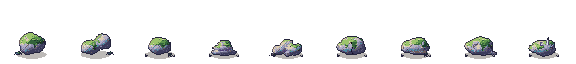
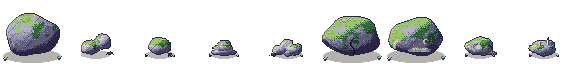
mossy_boulder.png: variants 0, 5, 6 are big boulders (Environment Discussion, user-approved: spurs read as trees only)
The shrunk boulders read as dots in the open-bowl maps' spurs. Variant 0 (mossy boulder), 5 (split) and 6
(lichen) are now drawn big and never shrunk: ~54-56 x 40-42 px, sitting low on a wide shadow, so any rock roll
gives a big boulder about 1 in 3. They use a one-step-heavier stone ramp (no top highlight) and less moss, which
keeps the value order (act 4 rocks 0.561 < path 0.595). The others and the ruin's 2 / 3 / 7 are unchanged.
All 4 acts, same layout, no code change.

Changed region(s): [[0.5312, 0.25, 0.7812, 1.0], [0.0, 0.1875, 0.125, 1.0]]

diff --git a/Project_T/tools/environment_art/heartwood_grounds.html b/Project_T/tools/environment_art/heartwood_grounds.html
@@ -855,20 +855,20 @@ function fern(out, g, x, y, sz = 1) {
   }
 }
 
-function boulder(A, v, seed) {
+function boulder(A, v, seed, big = false) {  // big: variant 0 as a heavy boulder filling most of the cell (see rock)
   const out = new Img(), L = new Img(), g = A.grass;
-  ellipse(out, 32, 54, 22, 6, SHADOW(.3));
-  const rocks = v === 0 ? [[32, 38, 20, 16]] : [[24, 43, 14, 11], [42, 35, 13, 12]];
-  for (const [x, y, rx, ry] of rocks) blob(L, x, y, rx, ry, STONE_RAMP, { lump: .1, seed: seed + x, tex: .12, rim: true });
+  ellipse(out, 32, big ? 56 : 54, big ? 29 : 22, big ? 7 : 6, SHADOW(big ? .34 : .3));
+  const rocks = big ? [[32, 35, 27, 21]] : v === 0 ? [[32, 38, 20, 16]] : [[24, 43, 14, 11], [42, 35, 13, 12]];
+  for (const [x, y, rx, ry] of rocks) blob(L, x, y, rx, ry, big ? BIG_STONE : STONE_RAMP, { lump: .1, seed: seed + x, tex: .12, rim: true });
   for (let y = 0; y < T; y++) for (let x = 0; x < T; x++) {
     if (!L.alpha(x, y)) continue;
     let best = rocks[0], bd = 1e9;
     for (const r of rocks) { const d = Math.hypot((x - r[0]) / r[2], (y - r[1]) / r[3]); if (d < bd) { bd = d; best = r; } }
     const dy = (y + .5 - best[1]) / best[3], dx = (x + .5 - best[0]) / best[2], n = pnoise(x, y, 6, seed + 3);
-    if (n - dy * .55 > .68) L.set(x, y, pick([g[2], g[3], g[4], "#86b060"], clamp(.62 - dx * .35 - dy * .4, 0, 1), x, y));
+    if (n - dy * .55 > (big ? .78 : .68)) L.set(x, y, pick([g[2], g[3], g[4], "#86b060"], clamp(.62 - dx * .35 - dy * .4, 0, 1), x, y));
   }
   out.stamp(L, ST.out);
-  fern(out, g, v === 0 ? 12 : 53, 54, .9);
+  if (big) { tuft(out, 5, 59, g); tuft(out, 59, 58, g); } else fern(out, g, v === 0 ? 12 : 53, 54, .9);
   return out;
 }
 
@@ -1574,8 +1574,21 @@ function mossPass(L, cx, cy, rx, ry, g, seed, amount = .78) {
 //    5 ruined waystone, 6 dream-crystal boulder
 // Every rock shares the family look so it never reads as a tree: low and round, waystone lavender,
 // a green moss cap, grass at its foot, and nothing tall, pale-barked or branching.
-function rock(A, t, seed) {
+// big: a heavy boulder filling most of the cell, never shrunk (2026-10-06, Environment Discussion: the shrunk
+// boulders read as dots in the spurs, so spur lines looked like trees only). Split (3) and lichen (4) only.
+function rock(A, t, seed, big = false) {
   const out = new Img(), L = new Img(), g = A.grass, dim = [g[0], g[0], g[1], g[2], g[3]];
+  if (big) {
+    ellipse(out, 32, 56, 29, 7, SHADOW(.34));
+    const [cx, cy, rx, ry] = t === 3 ? [32, 36, 28, 20] : [32, 37, 27, 19];
+    blob(L, cx, cy, rx, ry, BIG_STONE, { lump: .1, seed, tex: .12, rim: true });
+    if (t === 3) for (let y = 16; y <= 56; y++) { const x = 32 + Math.round(Math.sin(y * .4) * 2); if (L.alpha(x, y)) { L.set(x, y, "#0c0a14"); L.set(x + 1, y, ST.d2); if (y < 28 && y % 3 === 0) L.set(x - 1, y, g[3]); } }
+    else for (let y = 0; y < T; y++) for (let x = 0; x < T; x++) if (L.alpha(x, y) && y > 36 && pnoise(x, y, 5, seed + 8) > .7) L.set(x, y, hash(x, y, seed) < .6 ? "#8ab0a0" : "#b8d4c4");
+    mossPass(L, cx, cy, rx, ry, g, seed + 3, .5);
+    out.stamp(L, ST.out);
+    tuft(out, 5, 59, g); tuft(out, 59, 58, g);
+    return out;
+  }
   ellipse(out, 32, 54, 22, 6, SHADOW(.32));
   const MOSS = .66;
   if (t === 0) {
@@ -2119,6 +2132,7 @@ function ropeBridge(o) {
 // Rocks read smaller than the (taller) dead trees: each finished 64 px rock is shrunk to 68%
 // (nearest pixel), re-outlined, and set back on its old base line (y 55) in a 64 px cell.
 const ROCK_SCALE = .68;
+const BIG_STONE = [ST.d2, ST.d1, ST.m, ST.l1, ST.l2];  // the big boulders: one step heavier, no top highlight (keeps rocks under the path)
 function shrinkRock(im) {
   const n = Math.round(64 * ROCK_SCALE), small = new Img(n, n);
   for (let j = 0; j < n; j++) for (let i = 0; i < n; i++) {
@@ -2144,7 +2158,7 @@ const BUILD = {
   tree: (A, v) => tree(A, v, SEED + v * 17),
   withered: (A, v, f) => withered(A, f, SEED + v * 13),
   tended: A => tended(A),
-  boulder: (A, v) => shrinkRock(boulder(A, v, SEED + v * 7)),
+  boulder: (A, v) => v === 0 ? boulder(A, 0, SEED, true) : shrinkRock(boulder(A, v, SEED + v * 7)),  // sheet variant 0 is a big boulder
   dent: A => dent(A),
   waystone: (A, v, f) => waystone(A, f),
   pool: (A, v, f) => pool(A, f),
@@ -2161,7 +2175,7 @@ const BUILD = {
   fruit: (A, v, f) => dreamFruit(v, f),
   decor: (A, v) => decorAt(A, v, SEED + v),
   dead: (A, v, f) => deadTree(A, v, f, SEED + v * 29),
-  rock: (A, v) => shrinkRock(rock(A, v, SEED + v * 31)),
+  rock: (A, v) => v === 3 || v === 4 ? rock(A, v, SEED + v * 31, true) : shrinkRock(rock(A, v, SEED + v * 31)),  // sheet variants 5, 6 are big
   isle: (A, k) => islandEdge(A, k & 15, k >> 4),  // k = mask + 16 × variant
   cliff: (A, k) => cliffTile(A, k),
   voidsky: () => voidSky(),

diff --git a/Project_T/documentation/environment_assets.md b/Project_T/documentation/environment_assets.md
@@ -49,7 +49,7 @@ two trees pulse in step.
 | `fallen_log.png` | 384×64 | 6 pieces of 64×64: **W end, E–W middle, E end, N end, N–S middle, S end** | a dead tree lying along a straight line of cells (the map's log feature, the Fallen Giant gift): the dead trees' cool bark, moss on its back, a broken branch stub on each middle piece, pale splintered ends. Pieces join seamlessly (outline never on a cell edge, grain wraps every 64 px); the N–S pieces are the E–W ones turned |
 | `log_furrow.png` | 384×64 | the same 6 pieces as `fallen_log.png` (W end, E–W middle, E end, N end, N–S middle, S end) | the walkable mark a Tended fallen log leaves (the log is Tended as one unit): a shallow rotted trench of dark peat with a faint lit lip, bark chips in the log's colours, pale splinters and moss creeping back; lines up with the log cell for cell |
 | `tended_stump.png` | 64×64 | 1 | walkable mark left after Tend |
-| `mossy_boulder.png` | 576×64 | 9 rocks, each about 68% of their first size (low in the cell with a shadow, clearly smaller than the trees): 0–1 Mossy Boulder, 2 slab stone, 3 cairn, 4 rock cluster, 5 split boulder, 6 lichen boulder, 7 carved boulder, 8 dream-crystal boulder | obstacle, "Move"; all 9 are in `rock.tres` |
+| `mossy_boulder.png` | 576×64 | 9 rocks: **0, 5 and 6 are BIG boulders** (~54–56 × 40–42 px, low on a wide shadow, a one-step-heavier stone ramp; 2026-10-06, so spurs read as trees and rocks: about 1 roll in 3), the rest about 68% of their first size (clearly smaller than the trees): 0–1 Mossy Boulder, 2 slab stone, 3 cairn, 4 rock cluster, 5 split boulder, 6 lichen boulder, 7 carved boulder, 8 dream-crystal boulder | obstacle, "Move"; all 9 are in `rock.tres` |
 | `moved_hollow.png` | 64×64 | 1 | walkable mark left after Move |
 | `waystone.png` | 256×64 | 4 frames | proposed bonus build spot |
 | `dew_pool.png` | 256×64 | 4 frames (frozen in winter) | proposed special tile |
